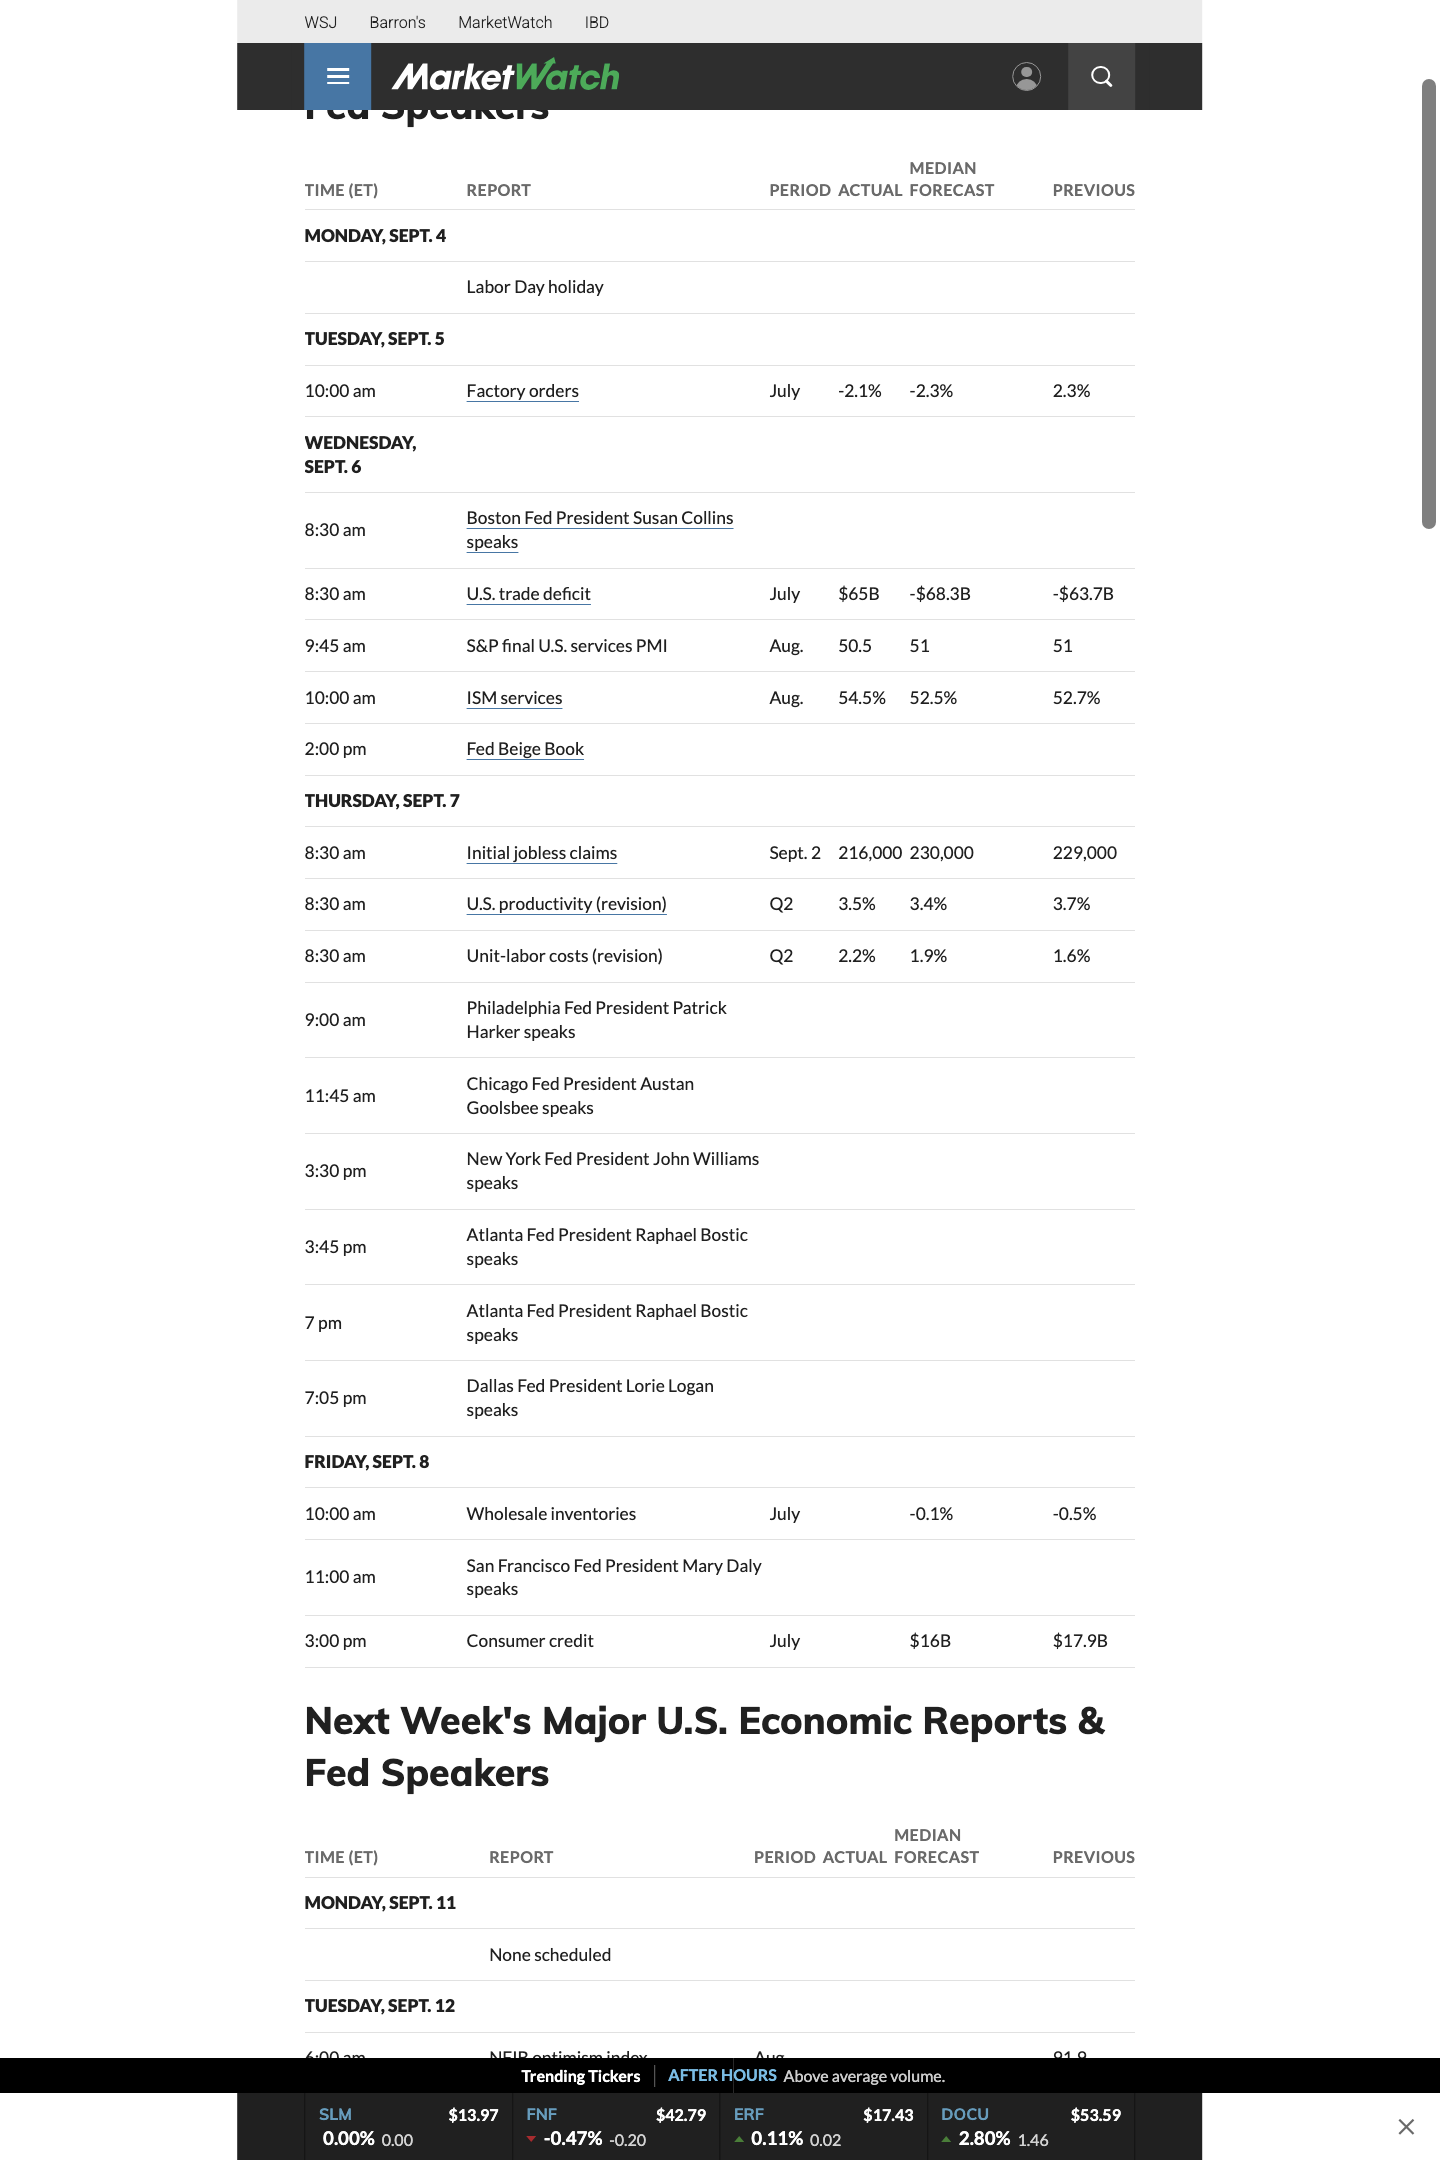
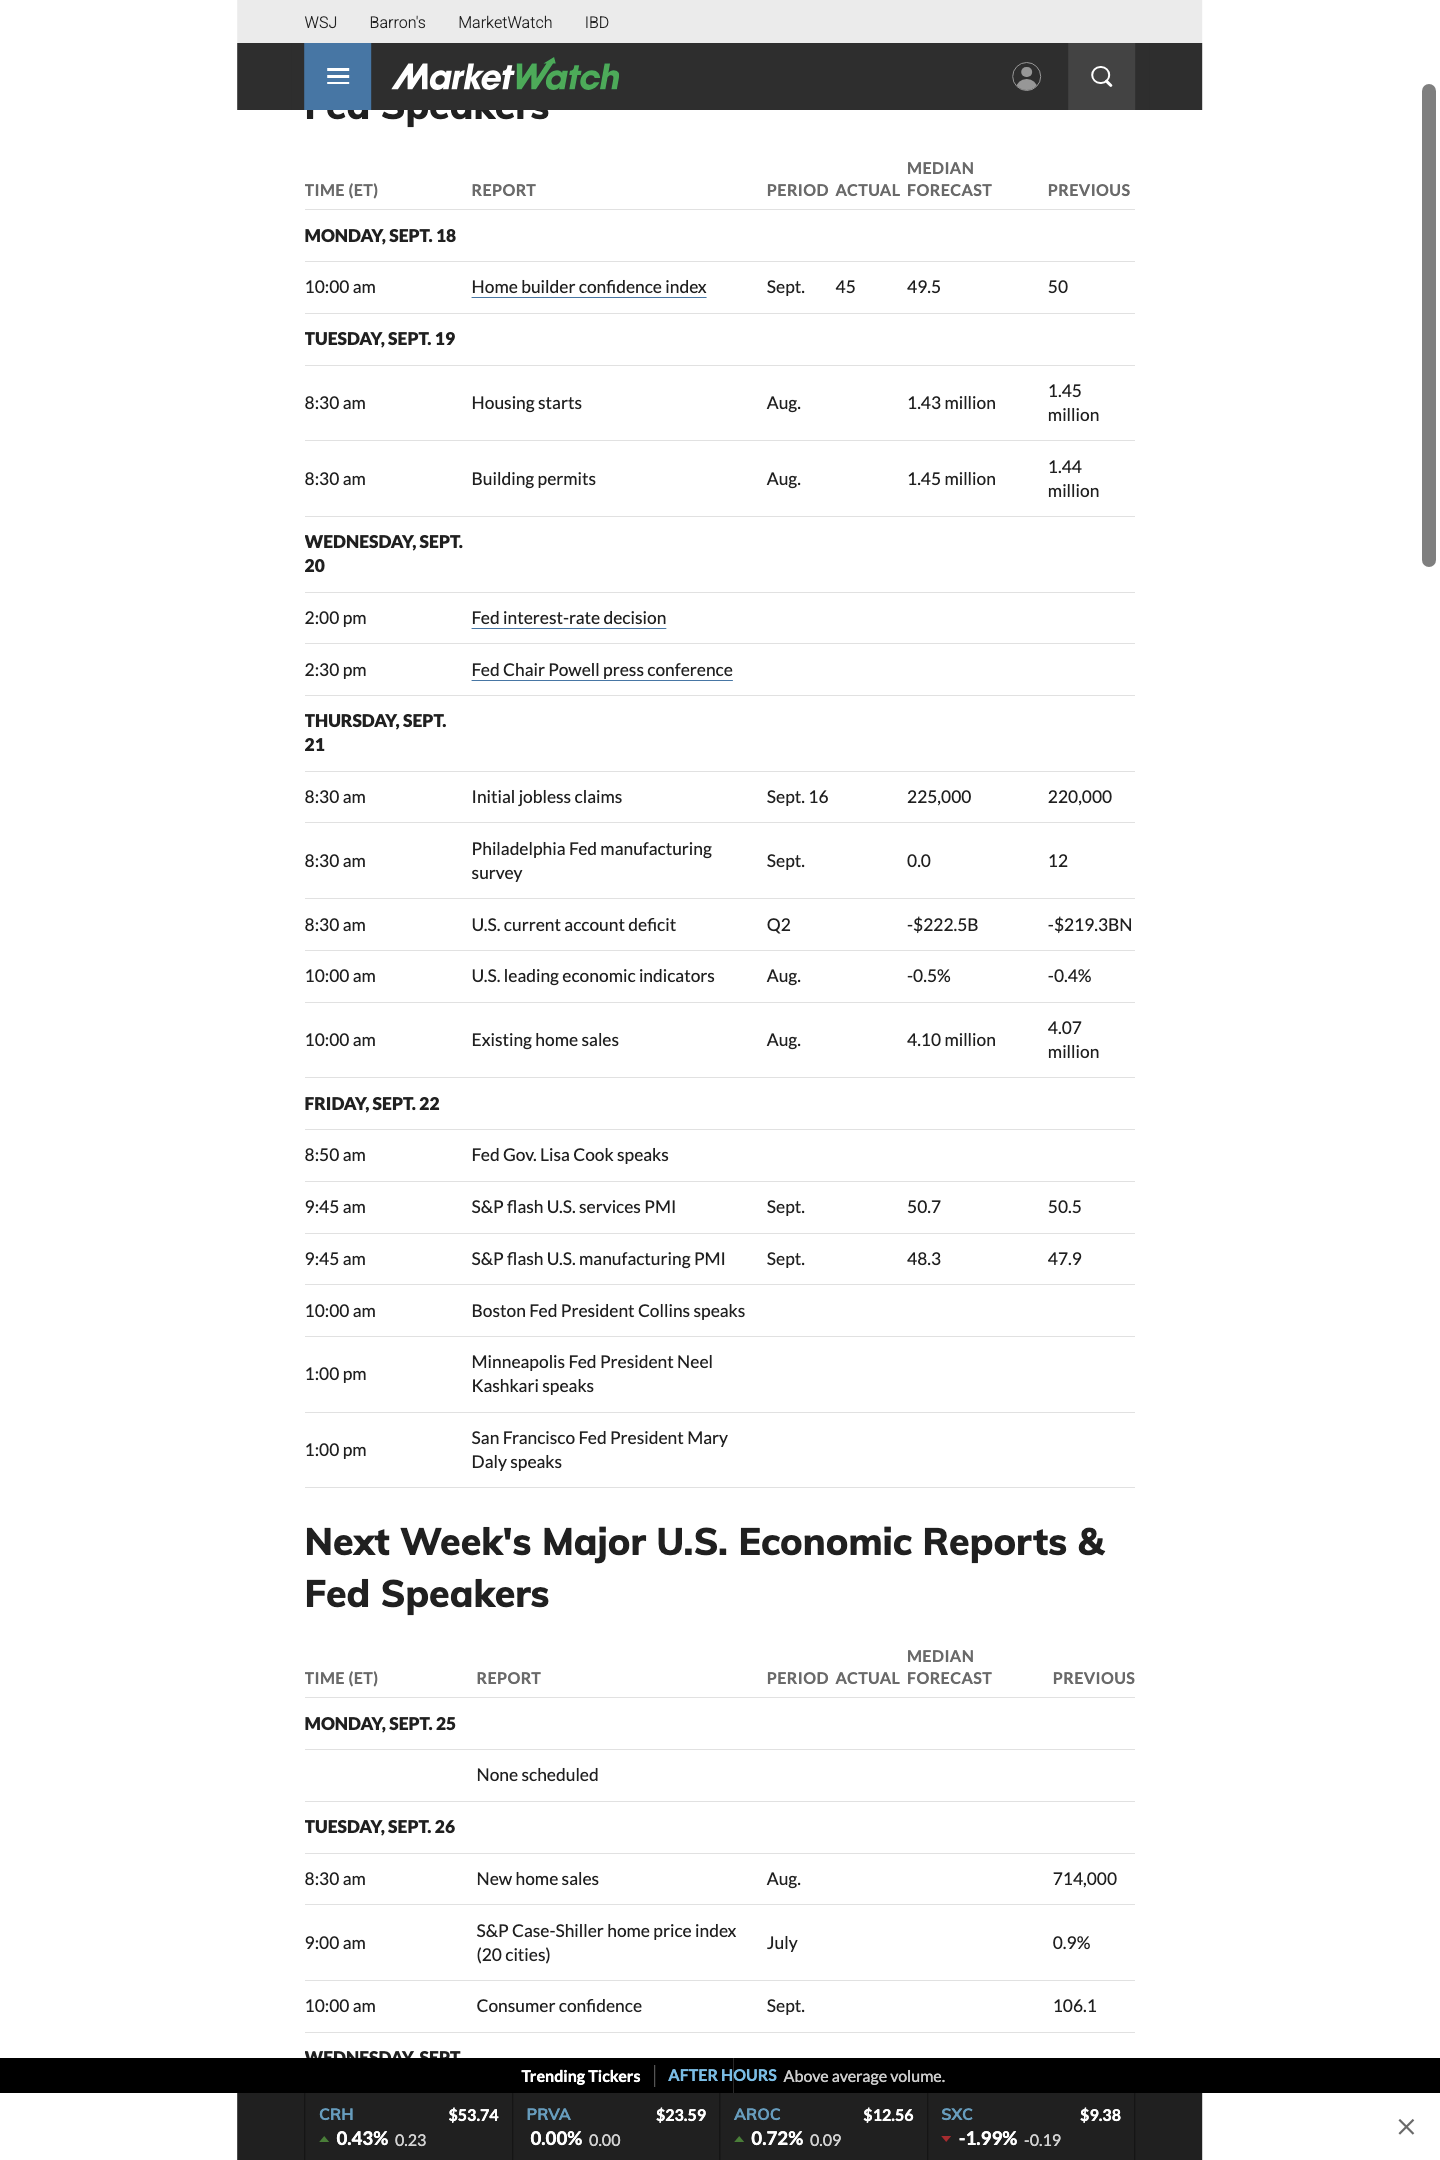
add tag requirement for screenshot and change send schedule to start of every hour between 7 and 11 am est

diff --git a/app.py b/app.py
@@ -35,24 +35,33 @@ football_dict = {}
 # call Screenshot class to take screenshot of webpage
 econ_cal_url = "https://www.marketwatch.com/economy-politics/calendar?mod=side_nav"
 
-fwd_econ_cal = True
+# configure app timezone
+ny = timezone('America/New_York')
+now = datetime.now(ny)
+last_hr = now.hour
+new_hr = False
+
 while True:
-    ny = timezone('America/New_York')
-    now = datetime.now(ny)
+    # check if a new hour has passed
+    if now.hour != last_hr:
+        new_hr = True
+        last_hr = now.hour
+    else:
+        new_hr = False
 
-
-    if now.weekday() < 5 and now.hour > 7 and now.hour < 17:
+    # fwd every 2.5 minutes between 7am and 5pm EST every weekday
+    if now.weekday() <= 4 and now.hour >= 7 and now.hour <= 17:
         # use discord webhook to send screenshot of econ calendar
-        if fwd_econ_cal:
-            Screenshot(econ_cal_url, cerebro_webhook_url).snap()
-            fwd_econ_cal = False
         TwitterToDiscord(cerebro_webhook_url, cerebro_users, cerebro_dict)
         time.sleep(2.5*60)
 
+        # economic data is usually posted between 8:30am and 10:30am
+        if now.hour >= 8 and now.hour <= 11 and new_hr:
+            Screenshot(econ_cal_url, cerebro_webhook_url, "ECONOMIC CALENDAR\n").snap()
+            
         if now.weekday() == 4 and now.hour > 8 and now.hour < 14:
             TwitterToDiscord(fridaysailer_url, fridaysailer_users, fridaysailer_dict)
             time.sleep(2.5*60)
     else:
-        fwd_econ_cal = True
         TwitterToDiscord(cerebro_webhook_url, cerebro_users, cerebro_dict)
         time.sleep(20*60)        

diff --git a/screenshot.py b/screenshot.py
@@ -12,7 +12,8 @@ class Screenshot:
     active_driver = None
 
     # initialize webdriver
-    def __init__(self, screenshot_url, webhook_url):
+    def __init__(self, screenshot_url, webhook_url, img_tag):
+        self.img_tag = img_tag
         self.webhook_url = webhook_url
         self.active_driver = self.driver(screenshot_url)
     
@@ -76,4 +77,5 @@ class Screenshot:
             url=self.webhook_url)
         with open("assets/screenshot.png", "rb") as f:
             webhook.add_file(file=f.read(), filename="economic_calendar.png")
+            webhook.content = self.img_tag + time.strftime("%m/%d/%Y, %H:%M:%S")
         webhook.execute()
